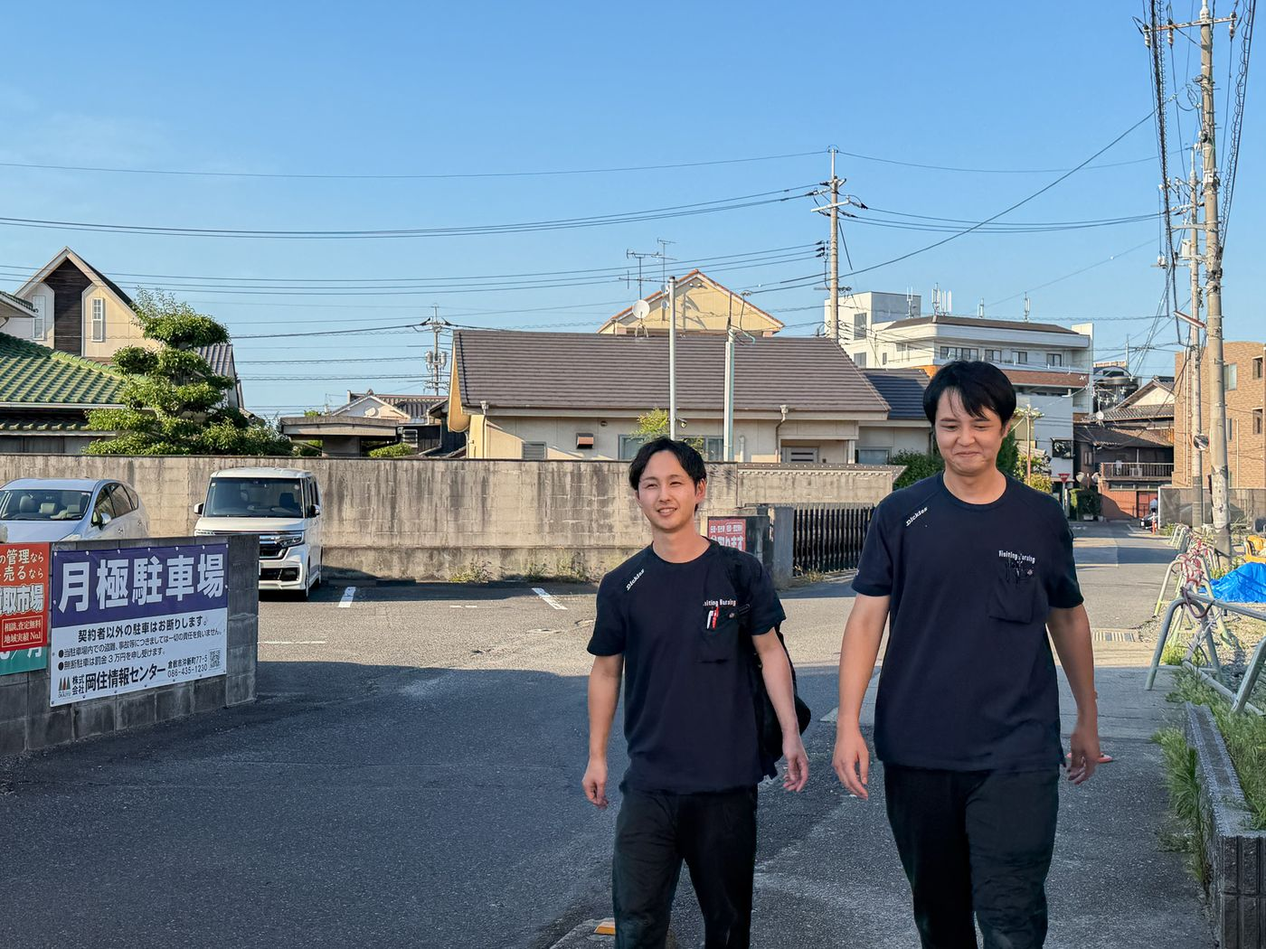
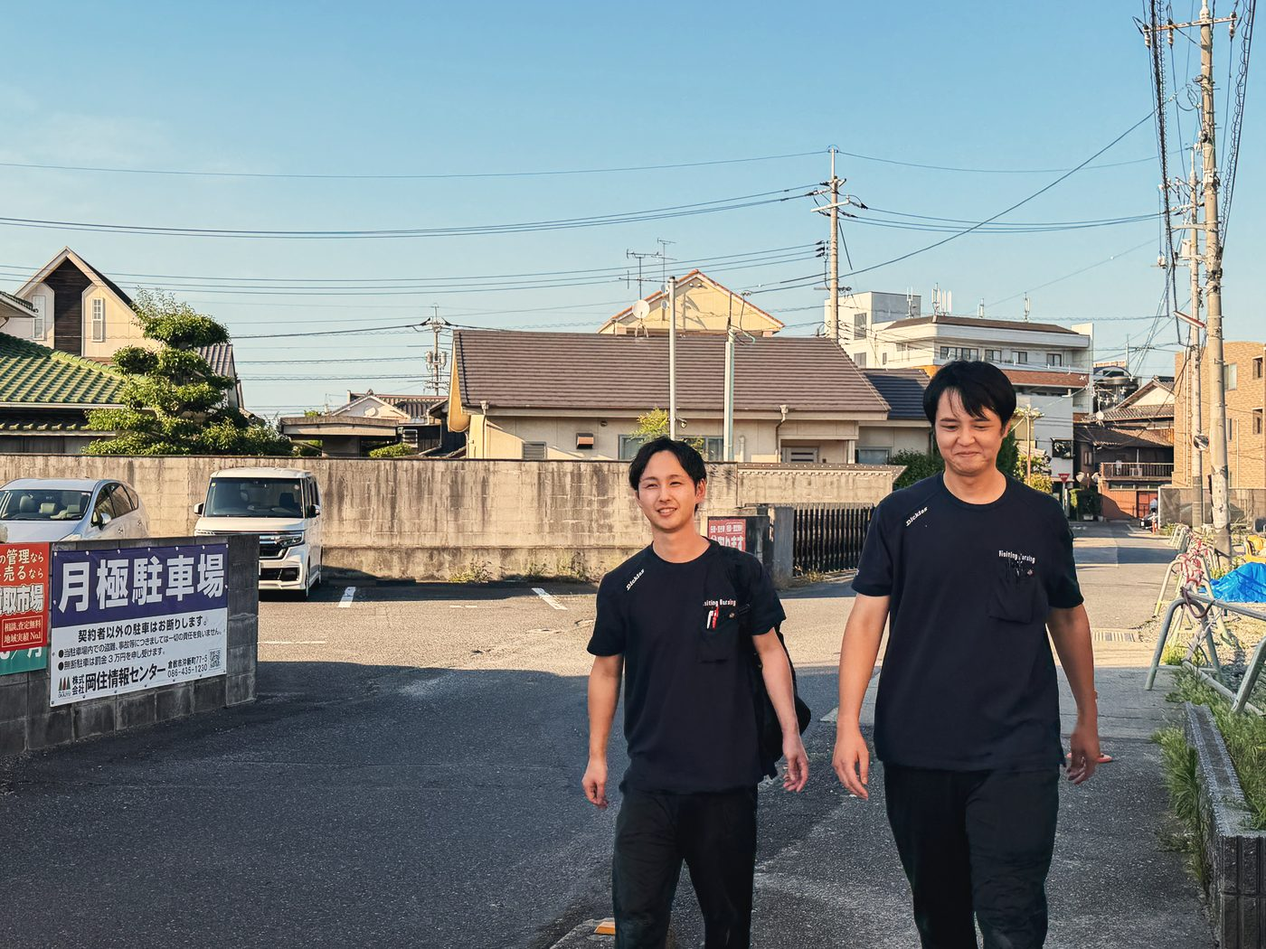
全写真を同じ仕上げで色調補正（ホワイトバランス・露出の均一化、柔らかいトーン、彩度・コントラスト調整、影は紺・ハイライトは生成り寄り）
Claude-Session: https://claude.ai/code/session_01LatpcZ6bUHWXEVHNRSd2Qz

diff --git a/index.html b/index.html
@@ -12,7 +12,7 @@
 </div></header>
 <main>
 <section class="kv" aria-label="訪問看護フィリーズ">
-<div class="kv-ph"><picture><source media="(max-width:1000px)" srcset="img/hero.jpg"><img src="img/about-team.jpg" alt="フィリーズのスタッフ" fetchpriority="high"></picture></div>
+<div class="kv-ph"><picture><source media="(max-width:1000px)" srcset="img/hero.jpg?v=2"><img src="img/about-team.jpg?v=2" alt="フィリーズのスタッフ" fetchpriority="high"></picture></div>
 <div class="kv-in">
 <p class="kv-lbl">倉敷市茶屋町の訪問看護ステーション</p>
 <h1 class="kv-h"><span class="ink">人を担う。</span><span class="ink">心の<em class="fill-word">隙間</em>を、埋める。</span></h1>
@@ -28,7 +28,7 @@
 <a class="kv-tel" href="tel:0864549300"><svg viewBox="0 0 24 24" aria-hidden="true"><path d="M5 3.5h3.2l1.6 4.2-2.1 1.4a11.5 11.5 0 0 0 7.2 7.2l1.4-2.1 4.2 1.6V19a1.5 1.5 0 0 1-1.6 1.5A16.5 16.5 0 0 1 3.5 5.1 1.5 1.5 0 0 1 5 3.5z" fill="none" stroke="currentColor" stroke-width="1.4" stroke-linejoin="round"/></svg><span><small>ご相談はお気軽に</small>086-454-9300</span></a>
 </div></section>
 <section class="mf" aria-labelledby="mf-h">
-<div class="mf-ph"><div class="photo mf-photo"><span><small>img/hero.jpg</small></span><picture><source media="(max-width:1000px)" srcset="img/about-team.jpg"><img src="img/hero.jpg" alt="フィリーズのスタッフ" loading="lazy" onerror="this.remove()"></picture></div></div>
+<div class="mf-ph"><div class="photo mf-photo"><span><small>img/hero.jpg</small></span><picture><source media="(max-width:1000px)" srcset="img/about-team.jpg?v=2"><img src="img/hero.jpg?v=2" alt="フィリーズのスタッフ" loading="lazy" onerror="this.remove()"></picture></div></div>
 <div class="mf-panel">
 <h2 class="mf-h" id="mf-h"><span>誰一人、</span><span>お断りしない。</span></h2>
 <div class="mf-body">
@@ -48,9 +48,9 @@
 </div>
 </div>
 <ul class="ab3-gal">
-<li><div class="photo ab3-ph"><span><small>img/philosophy.jpg</small></span><img src="img/philosophy.jpg" alt="PHILLYS 理念のパネルの前で書類を確認する看護師" loading="lazy" onerror="this.remove()"></div><p><b>人を担う</b>住み慣れた自宅での暮らしを、チームで支えます。</p></li>
-<li><div class="photo ab3-ph"><span><small>img/act2.jpg</small></span><img src="img/act2.jpg" alt="打ち合わせをするスタッフ" loading="lazy" onerror="this.remove()"></div><p><b>心の隙間を埋める</b>ご本人やご家族の不安にも寄り添います。</p></li>
-<li><div class="photo ab3-ph"><span><small>img/area.jpg</small></span><img src="img/area.jpg" alt="訪問車に乗り込む看護師" loading="lazy" onerror="this.remove()"></div><p><b>手を差し伸べる</b>どんな方でもお断りせず、必ず対応します。</p></li>
+<li><div class="photo ab3-ph"><span><small>img/philosophy.jpg</small></span><img src="img/philosophy.jpg?v=2" alt="PHILLYS 理念のパネルの前で書類を確認する看護師" loading="lazy" onerror="this.remove()"></div><p><b>人を担う</b>住み慣れた自宅での暮らしを、チームで支えます。</p></li>
+<li><div class="photo ab3-ph"><span><small>img/act2.jpg</small></span><img src="img/act2.jpg?v=2" alt="打ち合わせをするスタッフ" loading="lazy" onerror="this.remove()"></div><p><b>心の隙間を埋める</b>ご本人やご家族の不安にも寄り添います。</p></li>
+<li><div class="photo ab3-ph"><span><small>img/area.jpg</small></span><img src="img/area.jpg?v=2" alt="訪問車に乗り込む看護師" loading="lazy" onerror="this.remove()"></div><p><b>手を差し伸べる</b>どんな方でもお断りせず、必ず対応します。</p></li>
 </ul>
 </section>
 <section class="sv3"><div class="wrap">
@@ -58,13 +58,13 @@
 <p class="sv3-intro">訪問看護は、病気や障がいがあっても住み慣れた自宅で生活し続けたい方のもとへ看護職などが伺い、医療ケアや身体ケアを行うサービスです。</p></div>
 <div class="sv4-list"><article class="sv4">
 <div class="sv4-txt"><p class="sv4-no">01</p><h3>医療的なケア・健康管理</h3><p>傷や褥瘡の処置、点滴や医療機器の管理から、日々の体調の観察、栄養・服薬の管理まで。主治医と連携しながら、ご自宅で必要な医療ケアを行います。</p></div>
-<div class="photo sv4-ph"><span><small>img/service2.jpg</small></span><img src="img/service2.jpg" alt="タブレットを見ながら話す看護師" loading="lazy" onerror="this.remove()"></div>
+<div class="photo sv4-ph"><span><small>img/service2.jpg</small></span><img src="img/service2.jpg?v=2" alt="タブレットを見ながら話す看護師" loading="lazy" onerror="this.remove()"></div>
 </article><article class="sv4 rev">
 <div class="sv4-txt"><p class="sv4-no">02</p><h3>訪問リハビリ</h3><p>理学療法士・作業療法士がご自宅に伺い、日常生活動作の訓練や歩行の練習を行います。保険外のリハビリにも対応しています。</p></div>
-<div class="photo sv4-ph"><span><small>img/rehab.jpg</small></span><img src="img/rehab.jpg" alt="外を歩くフィリーズのスタッフ" loading="lazy" onerror="this.remove()"></div>
+<div class="photo sv4-ph"><span><small>img/rehab.jpg</small></span><img src="img/rehab.jpg?v=2" alt="外を歩くフィリーズのスタッフ" loading="lazy" onerror="this.remove()"></div>
 </article><article class="sv4">
 <div class="sv4-txt"><p class="sv4-no">03</p><h3>暮らしとご家族の支え</h3><p>食事・清潔・排せつのケアや、ご家族の悩みの相談、介護方法の助言を行います。住み慣れたご自宅で過ごすための終末期ケアも行います。</p></div>
-<div class="photo sv4-ph"><span><small>img/act3.jpg</small></span><img src="img/act3.jpg" alt="訪問に出発する看護師" loading="lazy" onerror="this.remove()"></div>
+<div class="photo sv4-ph"><span><small>img/act3.jpg</small></span><img src="img/act3.jpg?v=2" alt="訪問に出発する看護師" loading="lazy" onerror="this.remove()"></div>
 </article></div>
 <a class="ab3-more" href="service.html">サービスの詳細を見る<span aria-hidden="true"><svg viewBox="0 0 24 24"><path d="M9 6l6 6-6 6" fill="none" stroke="currentColor" stroke-width="2.2" stroke-linecap="round" stroke-linejoin="round"/></svg></span></a>
 </div></section>
@@ -105,21 +105,21 @@
 <dialog class="svm" id="sv-m1" aria-labelledby="sv-m1-t">
 <div class="svm-in">
 <button type="button" class="svm-x" aria-label="閉じる"></button>
-<div class="photo svm-ph"><span><small>img/service2.jpg</small></span><img src="img/service2.jpg" alt="" loading="lazy" onerror="this.remove()"></div>
+<div class="photo svm-ph"><span><small>img/service2.jpg</small></span><img src="img/service2.jpg?v=2" alt="" loading="lazy" onerror="this.remove()"></div>
 <div class="svm-body"><p class="sv3-en">Medical Care</p><h3 id="sv-m1-t">医療的なケア・健康管理</h3><p>主治医の指示のもと、ご自宅で必要な医療ケアを行います。体調の小さな変化にも早めに気づけるよう、日々の様子を見守り、必要に応じて主治医や関係機関と連携します。</p>
 <ul><li>医療的なケア(傷や褥瘡〔床ずれ〕の処置、点滴や医療機器等の管理など)</li><li>症状・障害の観察と判断、健康管理</li><li>水分・栄養管理</li><li>薬の飲み方と管理</li></ul><p class="svm-note">精神科訪問看護、難病(ALS等)の療養にも対応しています。</p>
 <div class="svm-cta"><a class="sv4-btn" href="tel:0864549300">お電話でご相談 086-454-9300</a><a class="svm-link" href="price.html">料金を見る</a></div></div>
 </div></dialog><dialog class="svm" id="sv-m2" aria-labelledby="sv-m2-t">
 <div class="svm-in">
 <button type="button" class="svm-x" aria-label="閉じる"></button>
-<div class="photo svm-ph"><span><small>img/rehab.jpg</small></span><img src="img/rehab.jpg" alt="" loading="lazy" onerror="this.remove()"></div>
+<div class="photo svm-ph"><span><small>img/rehab.jpg</small></span><img src="img/rehab.jpg?v=2" alt="" loading="lazy" onerror="this.remove()"></div>
 <div class="svm-body"><p class="sv3-en">Rehabilitation</p><h3 id="sv-m2-t">訪問リハビリ</h3><p>理学療法士・作業療法士がご自宅に伺い、暮らしの場でリハビリを行います。「もう一度歩きたい」「自分でトイレに行きたい」といった目標を、一緒に目指します。</p>
 <ul><li>リハビリ・日常生活動作の訓練</li><li>歩行や移動の練習</li><li>ご自宅の環境に合わせた動作のアドバイス</li><li>保険外リハビリ(20分 3,000円〜)</li></ul><p class="svm-note">介護保険・医療保険のほか、保険外でのリハビリもご利用いただけます。</p>
 <div class="svm-cta"><a class="sv4-btn" href="tel:0864549300">お電話でご相談 086-454-9300</a><a class="svm-link" href="price.html">料金を見る</a></div></div>
 </div></dialog><dialog class="svm" id="sv-m3" aria-labelledby="sv-m3-t">
 <div class="svm-in">
 <button type="button" class="svm-x" aria-label="閉じる"></button>
-<div class="photo svm-ph"><span><small>img/act3.jpg</small></span><img src="img/act3.jpg" alt="" loading="lazy" onerror="this.remove()"></div>
+<div class="photo svm-ph"><span><small>img/act3.jpg</small></span><img src="img/act3.jpg?v=2" alt="" loading="lazy" onerror="this.remove()"></div>
 <div class="svm-body"><p class="sv3-en">Life & Family</p><h3 id="sv-m3-t">暮らしとご家族の支え</h3><p>ご本人だけでなく、支えるご家族の悩みにも寄り添います。住み慣れたご自宅で、その人らしく最期まで過ごせるよう、終末期のケアも行います。</p>
 <ul><li>食事・清潔・排せつのケア</li><li>家族の悩みの相談</li><li>療養生活、看護・介護方法に関する相談・助言</li><li>終末期ケア(ターミナルケア)</li></ul><p class="svm-note">どんな方でもお断りすることなく、必ず対応いたします。</p>
 <div class="svm-cta"><a class="sv4-btn" href="tel:0864549300">お電話でご相談 086-454-9300</a><a class="svm-link" href="price.html">料金を見る</a></div></div>

diff --git a/recruit.html b/recruit.html
@@ -12,7 +12,7 @@
 </div></header>
 <main>
 <section class="rc-hero">
-<div class="photo rc-hero-ph"><span><small>img/recruit.jpg</small></span><img src="img/recruit.jpg" alt="笑顔で話すフィリーズのスタッフ" loading="lazy" onerror="this.remove()"></div>
+<div class="photo rc-hero-ph"><span><small>img/recruit.jpg</small></span><img src="img/recruit.jpg?v=2" alt="笑顔で話すフィリーズのスタッフ" loading="lazy" onerror="this.remove()"></div>
 <div class="wrap rc-hero-in"><div class="rc-hero-box">
 <nav class="bc" aria-label="現在地"><a href="index.html">トップ</a><span aria-hidden="true">/</span>求人</nav>
 <p class="rc-tagline">看護師・理学療法士(PT)・作業療法士(OT) 募集中</p>
@@ -35,17 +35,17 @@
 <p class="rc-p2">また、スタッフ一人ひとりの生活も大切にしたいと考えています。高い専門性を学びながら、無理なく、長く活躍できる。そんな「プロとしての安心感」を、フィリーズで体感してみませんか？</p></div>
 </div>
 <ul class="ab3-gal">
-<li><div class="photo ab3-ph"><span><small>img/about-team.jpg</small></span><img src="img/about-team.jpg" alt="フィリーズのスタッフ" loading="lazy" onerror="this.remove()"></div><p><b>チームで考える</b>ひとりで抱え込まず、みんなで支え合います。</p></li>
-<li><div class="photo ab3-ph"><span><small>img/act2.jpg</small></span><img src="img/act2.jpg" alt="打ち合わせをするスタッフ" loading="lazy" onerror="this.remove()"></div><p><b>質問しやすい空気</b>先輩がいつもそばにいます。</p></li>
-<li><div class="photo ab3-ph"><span><small>img/act3.jpg</small></span><img src="img/act3.jpg" alt="訪問に出発する看護師" loading="lazy" onerror="this.remove()"></div><p><b>生活も大切に</b>働き方の希望は、面接でご相談ください。</p></li>
+<li><div class="photo ab3-ph"><span><small>img/about-team.jpg</small></span><img src="img/about-team.jpg?v=2" alt="フィリーズのスタッフ" loading="lazy" onerror="this.remove()"></div><p><b>チームで考える</b>ひとりで抱え込まず、みんなで支え合います。</p></li>
+<li><div class="photo ab3-ph"><span><small>img/act2.jpg</small></span><img src="img/act2.jpg?v=2" alt="打ち合わせをするスタッフ" loading="lazy" onerror="this.remove()"></div><p><b>質問しやすい空気</b>先輩がいつもそばにいます。</p></li>
+<li><div class="photo ab3-ph"><span><small>img/act3.jpg</small></span><img src="img/act3.jpg?v=2" alt="訪問に出発する看護師" loading="lazy" onerror="this.remove()"></div><p><b>生活も大切に</b>働き方の希望は、面接でご相談ください。</p></li>
 </ul></section>
 
 <section class="sv3"><div class="wrap">
 <div class="sv3-head"><div class="ab3-ttl"><p class="ab3-en">Work</p><h2>募集職種</h2></div>
 <p class="sv3-intro">「ひとりで抱え込まない。」あなたの優しさとプロのチームが、利用者様を支えます。</p></div>
 <div class="sv4-list">
-<article class="sv4"><div class="sv4-txt"><p class="sv4-no">01</p><h3>訪問看護師</h3><p class="rc-catch">「専門知識は、働きながら少しずつ身につけていきましょう。」</p><p>精神科訪問看護、難病・ターミナルケアなど、幅広い看護業務を担当します。最初は経験豊富な先輩スタッフが同行し、利用者様との関わり方やケアの手順を丁寧にお教えします。「初めての訪問看護で不安」という方も、チームでフォローするため安心して一歩を踏み出せます。</p></div><div class="photo sv4-ph"><span><small>img/philosophy.jpg</small></span><img src="img/philosophy.jpg" alt="書類を確認する看護師" loading="lazy" onerror="this.remove()"></div></article>
-<article class="sv4 rev"><div class="sv4-txt"><p class="sv4-no">02</p><h3>理学療法士(PT)・作業療法士(OT)</h3><p class="rc-catch">「生活の質を上げる喜びを、一緒に分かち合いませんか。」</p><p>利用者様のご自宅でのリハビリテーションや、日常生活動作のサポートを行います。身体的なケアだけでなく、利用者様やご家族の心に寄り添うことも大切なお仕事です。チームでカンファレンスを行い、多角的な視点でケアプランを考えるため、個人の負担が少なく、高い専門性を身につけられます。</p></div><div class="photo sv4-ph"><span><small>img/rehab.jpg</small></span><img src="img/rehab.jpg" alt="外を歩くスタッフ" loading="lazy" onerror="this.remove()"></div></article>
+<article class="sv4"><div class="sv4-txt"><p class="sv4-no">01</p><h3>訪問看護師</h3><p class="rc-catch">「専門知識は、働きながら少しずつ身につけていきましょう。」</p><p>精神科訪問看護、難病・ターミナルケアなど、幅広い看護業務を担当します。最初は経験豊富な先輩スタッフが同行し、利用者様との関わり方やケアの手順を丁寧にお教えします。「初めての訪問看護で不安」という方も、チームでフォローするため安心して一歩を踏み出せます。</p></div><div class="photo sv4-ph"><span><small>img/philosophy.jpg</small></span><img src="img/philosophy.jpg?v=2" alt="書類を確認する看護師" loading="lazy" onerror="this.remove()"></div></article>
+<article class="sv4 rev"><div class="sv4-txt"><p class="sv4-no">02</p><h3>理学療法士(PT)・作業療法士(OT)</h3><p class="rc-catch">「生活の質を上げる喜びを、一緒に分かち合いませんか。」</p><p>利用者様のご自宅でのリハビリテーションや、日常生活動作のサポートを行います。身体的なケアだけでなく、利用者様やご家族の心に寄り添うことも大切なお仕事です。チームでカンファレンスを行い、多角的な視点でケアプランを考えるため、個人の負担が少なく、高い専門性を身につけられます。</p></div><div class="photo sv4-ph"><span><small>img/rehab.jpg</small></span><img src="img/rehab.jpg?v=2" alt="外を歩くスタッフ" loading="lazy" onerror="this.remove()"></div></article>
 </div></div></section>
 
 <section class="ab-what"><div class="wrap">

diff --git a/service.html b/service.html
@@ -17,13 +17,13 @@
 <p class="pg-lead"><b class="pg-catch">ご自宅で、病院と同じ安心を。</b>訪問看護は、病気や障がいがあっても住み慣れた自宅で生活し続けたい方のもとへ看護職などが伺い、医療ケアや身体ケアを行うサービスです。</p></div>
 <ul class="sp-jump"><li><a href="#s1">医療的なケア・健康管理</a></li><li><a href="#s2">訪問リハビリ</a></li><li><a href="#s3">暮らしとご家族の支え</a></li><li><a href="#who">ご相談の多い方</a></li></ul>
 </div>
-<div class="photo pg-hero-ph"><span><small>img/service1.jpg</small></span><img src="img/service1.jpg" alt="カンファレンスの様子" loading="lazy" onerror="this.remove()"></div>
+<div class="photo pg-hero-ph"><span><small>img/service1.jpg</small></span><img src="img/service1.jpg?v=2" alt="カンファレンスの様子" loading="lazy" onerror="this.remove()"></div>
 </section>
 
 <section class="sv3"><div class="wrap">
 <div class="sv3-head"><div class="ab3-ttl"><p class="ab3-en sm">Our Care</p><h2>ケアの内容</h2></div>
 <p class="sv3-intro">「療養上の世話」と「診療の補助」。看護師が病院で担う役割を、ご自宅でも同じように担います。</p></div>
-<div class="sv4-list"><article class="sv4 sp-card" id="s1"><div class="sv4-txt"><p class="sv4-no">01</p><p class="sv3-en">Medical Care</p><h3>医療的なケア・健康管理</h3><p>主治医の指示のもと、ご自宅で必要な医療ケアを行います。体調の小さな変化にも早めに気づけるよう、日々の様子を見守り、必要に応じて主治医や関係機関と連携します。</p><ul class="sp-list"><li>医療的なケア(傷や褥瘡〔床ずれ〕の処置、点滴や医療機器等の管理など)</li><li>症状・障害の観察と判断、健康管理</li><li>水分・栄養管理</li><li>薬の飲み方と管理</li></ul></div><div class="photo sv4-ph"><span><small>img/service2.jpg</small></span><img src="img/service2.jpg" alt="タブレットを見ながら話す看護師" loading="lazy" onerror="this.remove()"></div></article><article class="sv4 sp-card rev" id="s2"><div class="sv4-txt"><p class="sv4-no">02</p><p class="sv3-en">Rehabilitation</p><h3>訪問リハビリ</h3><p>理学療法士・作業療法士がご自宅に伺い、暮らしの場でリハビリを行います。「もう一度歩きたい」といった目標を、一緒に目指します。</p><ul class="sp-list"><li>リハビリ・日常生活動作の訓練</li><li>歩行や移動の練習</li><li>ご自宅の環境に合わせた動作のアドバイス</li><li>保険外リハビリにも対応</li></ul></div><div class="photo sv4-ph"><span><small>img/rehab.jpg</small></span><img src="img/rehab.jpg" alt="外を歩くフィリーズのスタッフ" loading="lazy" onerror="this.remove()"></div></article><article class="sv4 sp-card" id="s3"><div class="sv4-txt"><p class="sv4-no">03</p><p class="sv3-en">Life & Family</p><h3>暮らしとご家族の支え</h3><p>ご本人だけでなく、支えるご家族の悩みにも寄り添います。住み慣れたご自宅で、その人らしく過ごせるよう、終末期のケアも行います。</p><ul class="sp-list"><li>食事・清潔・排せつのケア</li><li>家族の悩みの相談</li><li>療養生活、看護・介護方法に関する相談・助言</li><li>終末期ケア(ターミナルケア)</li></ul></div><div class="photo sv4-ph"><span><small>img/act3.jpg</small></span><img src="img/act3.jpg" alt="訪問に出発する看護師" loading="lazy" onerror="this.remove()"></div></article></div>
+<div class="sv4-list"><article class="sv4 sp-card" id="s1"><div class="sv4-txt"><p class="sv4-no">01</p><p class="sv3-en">Medical Care</p><h3>医療的なケア・健康管理</h3><p>主治医の指示のもと、ご自宅で必要な医療ケアを行います。体調の小さな変化にも早めに気づけるよう、日々の様子を見守り、必要に応じて主治医や関係機関と連携します。</p><ul class="sp-list"><li>医療的なケア(傷や褥瘡〔床ずれ〕の処置、点滴や医療機器等の管理など)</li><li>症状・障害の観察と判断、健康管理</li><li>水分・栄養管理</li><li>薬の飲み方と管理</li></ul></div><div class="photo sv4-ph"><span><small>img/service2.jpg</small></span><img src="img/service2.jpg?v=2" alt="タブレットを見ながら話す看護師" loading="lazy" onerror="this.remove()"></div></article><article class="sv4 sp-card rev" id="s2"><div class="sv4-txt"><p class="sv4-no">02</p><p class="sv3-en">Rehabilitation</p><h3>訪問リハビリ</h3><p>理学療法士・作業療法士がご自宅に伺い、暮らしの場でリハビリを行います。「もう一度歩きたい」といった目標を、一緒に目指します。</p><ul class="sp-list"><li>リハビリ・日常生活動作の訓練</li><li>歩行や移動の練習</li><li>ご自宅の環境に合わせた動作のアドバイス</li><li>保険外リハビリにも対応</li></ul></div><div class="photo sv4-ph"><span><small>img/rehab.jpg</small></span><img src="img/rehab.jpg?v=2" alt="外を歩くフィリーズのスタッフ" loading="lazy" onerror="this.remove()"></div></article><article class="sv4 sp-card" id="s3"><div class="sv4-txt"><p class="sv4-no">03</p><p class="sv3-en">Life & Family</p><h3>暮らしとご家族の支え</h3><p>ご本人だけでなく、支えるご家族の悩みにも寄り添います。住み慣れたご自宅で、その人らしく過ごせるよう、終末期のケアも行います。</p><ul class="sp-list"><li>食事・清潔・排せつのケア</li><li>家族の悩みの相談</li><li>療養生活、看護・介護方法に関する相談・助言</li><li>終末期ケア(ターミナルケア)</li></ul></div><div class="photo sv4-ph"><span><small>img/act3.jpg</small></span><img src="img/act3.jpg?v=2" alt="訪問に出発する看護師" loading="lazy" onerror="this.remove()"></div></article></div>
 </div></section>
 
 <section class="ab-what" id="who"><div class="wrap">

diff --git a/about.html b/about.html
@@ -16,23 +16,23 @@
 <div class="pg-hero-in"><div class="ab3-ttl"><p class="ab3-en">About</p><h1 class="pg-h">私たちについて</h1></div>
 <p class="pg-lead"><b class="pg-catch">誰一人、お断りしない。</b>精神科、難病、ターミナルケア。どんな状態の方も、看護師とセラピストのチームで支えます。倉敷市茶屋町の訪問看護ステーションです。</p></div>
 </div>
-<div class="photo pg-hero-ph"><span><small>img/about-team.jpg</small></span><img src="img/about-team.jpg" alt="フィリーズのスタッフ" loading="lazy" onerror="this.remove()"></div>
+<div class="photo pg-hero-ph"><span><small>img/about-team.jpg</small></span><img src="img/about-team.jpg?v=2" alt="フィリーズのスタッフ" loading="lazy" onerror="this.remove()"></div>
 </section>
 
 <section class="vls"><div class="wrap">
 <div class="sv3-head"><div class="ab3-ttl"><p class="ab3-en">Value</p><h2>私たちが<br>大切にしていること</h2></div>
 <p class="sv3-intro">フィリーズが毎日の訪問で大切にしていることを、ご利用者様の声とあわせてご紹介します。</p></div>
 <div class="vl-list"><article class="vl">
-<div class="photo vl-ph"><span><small>img/philosophy.jpg</small></span><img src="img/philosophy.jpg" alt="理念のパネルの前の看護師" loading="lazy" onerror="this.remove()"></div>
+<div class="photo vl-ph"><span><small>img/philosophy.jpg</small></span><img src="img/philosophy.jpg?v=2" alt="理念のパネルの前の看護師" loading="lazy" onerror="this.remove()"></div>
 <div class="vl-txt"><p class="vl-no">Value 01</p><h3>誰一人、お断りしない</h3><p>「対応できない」をなくすために、精神科訪問看護、難病(ALS等)、ターミナルケアなど、さまざまな経験を積んだ看護師とセラピストが集まりました。医療機関や薬局、ケアマネジャーなど多職種と連携し、どんな症状の方も支えます。</p></div>
 </article><article class="vl rev">
-<div class="photo vl-ph"><span><small>img/rehab.jpg</small></span><img src="img/rehab.jpg" alt="外を歩くスタッフ" loading="lazy" onerror="this.remove()"></div>
+<div class="photo vl-ph"><span><small>img/rehab.jpg</small></span><img src="img/rehab.jpg?v=2" alt="外を歩くスタッフ" loading="lazy" onerror="this.remove()"></div>
 <div class="vl-txt"><p class="vl-no">Value 02</p><h3>その人の<span class="nw">「やりたい」を、</span><span class="nw">一緒に目指す</span></h3><p>ケアをするだけでなく、ご本人が今いちばんやりたいことを伺い、目標にします。目標があると、毎日の過ごし方も、回復の早さも変わります。</p><blockquote class="vl-q"><p>母が人工肛門になり、やる気を失っている時に、母が今一番やりたいことを聞いてくださったおかげで目標を持つことができ、そこからの回復がとても早かったです。</p><cite>80歳女性のご家族</cite></blockquote></div>
 </article><article class="vl">
-<div class="photo vl-ph"><span><small>img/act3.jpg</small></span><img src="img/act3.jpg" alt="訪問に出発する看護師" loading="lazy" onerror="this.remove()"></div>
+<div class="photo vl-ph"><span><small>img/act3.jpg</small></span><img src="img/act3.jpg?v=2" alt="訪問に出発する看護師" loading="lazy" onerror="this.remove()"></div>
 <div class="vl-txt"><p class="vl-no">Value 03</p><h3>ご家族にも、安心を</h3><p>支えるご家族の悩みや不安も、私たちの大切な仕事です。何かあったときに相談できる存在でありたいと考えています。</p><blockquote class="vl-q"><p>何かあった時にいつでも(24時間)連絡すると対応していただけると思うと、とても安心です。</p><cite>70歳男性の娘様</cite></blockquote></div>
 </article><article class="vl rev">
-<div class="photo vl-ph"><span><small>img/about-team.jpg</small></span><img src="img/about-team.jpg" alt="フィリーズのスタッフ" loading="lazy" onerror="this.remove()"></div>
+<div class="photo vl-ph"><span><small>img/about-team.jpg</small></span><img src="img/about-team.jpg?v=2" alt="フィリーズのスタッフ" loading="lazy" onerror="this.remove()"></div>
 <div class="vl-txt"><p class="vl-no">Value 04</p><h3>ひとりで抱え込まない、チーム</h3><p>個人の力に頼るのではなく、チームで考え、支え合う。どんなときも誰かが必ずそばにいて、質問しやすい空気をつくっています。チームで話し合うから、ケアの質を保てます。</p><blockquote class="vl-q"><p>「困ったときは相談できる」が当たり前。未経験からプロを目指す、支え合いのチーム。</p><cite>フィリーズ 採用ページより</cite></blockquote></div>
 </article></div>
 </div></section>

diff --git a/voice.html b/voice.html
@@ -32,7 +32,7 @@
 <section class="vp-act"><div class="wrap">
 <div class="sv3-head"><div class="ab3-ttl"><p class="ab3-en sm">Activity</p><h2>活動の様子</h2></div>
 <p class="sv3-intro">事務所での打ち合わせから訪問まで、フィリーズの毎日を少しだけご紹介します。</p></div>
-<div class="vp-gal"><figure class="vp-g"><div class="photo vp-gph"><span><small>img/act1.jpg</small></span><img src="img/act1.jpg" alt="予定ボードを確認するスタッフ" loading="lazy" onerror="this.remove()"></div><figcaption>毎日の訪問予定は、ボードで共有しています。</figcaption></figure><figure class="vp-g"><div class="photo vp-gph"><span><small>img/act2.jpg</small></span><img src="img/act2.jpg" alt="打ち合わせをするスタッフ" loading="lazy" onerror="this.remove()"></div><figcaption>ご利用者様のことを、チームで話し合います。</figcaption></figure><figure class="vp-g"><div class="photo vp-gph"><span><small>img/act3.jpg</small></span><img src="img/act3.jpg" alt="訪問に出発する看護師" loading="lazy" onerror="this.remove()"></div><figcaption>社用車で、ご自宅へ伺います。</figcaption></figure><figure class="vp-g"><div class="photo vp-gph"><span><small>img/philosophy.jpg</small></span><img src="img/philosophy.jpg" alt="書類を確認する看護師" loading="lazy" onerror="this.remove()"></div><figcaption>記録や情報は、スタッフ同士で確認し合います。</figcaption></figure></div>
+<div class="vp-gal"><figure class="vp-g"><div class="photo vp-gph"><span><small>img/act1.jpg</small></span><img src="img/act1.jpg?v=2" alt="予定ボードを確認するスタッフ" loading="lazy" onerror="this.remove()"></div><figcaption>毎日の訪問予定は、ボードで共有しています。</figcaption></figure><figure class="vp-g"><div class="photo vp-gph"><span><small>img/act2.jpg</small></span><img src="img/act2.jpg?v=2" alt="打ち合わせをするスタッフ" loading="lazy" onerror="this.remove()"></div><figcaption>ご利用者様のことを、チームで話し合います。</figcaption></figure><figure class="vp-g"><div class="photo vp-gph"><span><small>img/act3.jpg</small></span><img src="img/act3.jpg?v=2" alt="訪問に出発する看護師" loading="lazy" onerror="this.remove()"></div><figcaption>社用車で、ご自宅へ伺います。</figcaption></figure><figure class="vp-g"><div class="photo vp-gph"><span><small>img/philosophy.jpg</small></span><img src="img/philosophy.jpg?v=2" alt="書類を確認する看護師" loading="lazy" onerror="this.remove()"></div><figcaption>記録や情報は、スタッフ同士で確認し合います。</figcaption></figure></div>
 </div></section>
 </main><nav class="mbar3" aria-label="お問い合わせ"><a class="m3-tel" href="tel:0864549300"><svg viewBox="0 0 24 24" aria-hidden="true"><path d="M5 3.5h3.2l1.6 4.2-2.1 1.4a11.5 11.5 0 0 0 7.2 7.2l1.4-2.1 4.2 1.6V19a1.5 1.5 0 0 1-1.6 1.5A16.5 16.5 0 0 1 3.5 5.1 1.5 1.5 0 0 1 5 3.5z" fill="none" stroke="currentColor" stroke-width="1.4" stroke-linejoin="round"/></svg><span>086-454-9300</span></a><a class="m3-form" href="contact.html"><span>フォームで相談</span><svg viewBox="0 0 24 24" aria-hidden="true"><path d="M4 12h15m-5-5 5 5-5 5" fill="none" stroke="currentColor" stroke-width="1.4" stroke-linecap="round" stroke-linejoin="round"/></svg></a></nav>
 <section class="cta2"><div class="wrap cta2-in">
